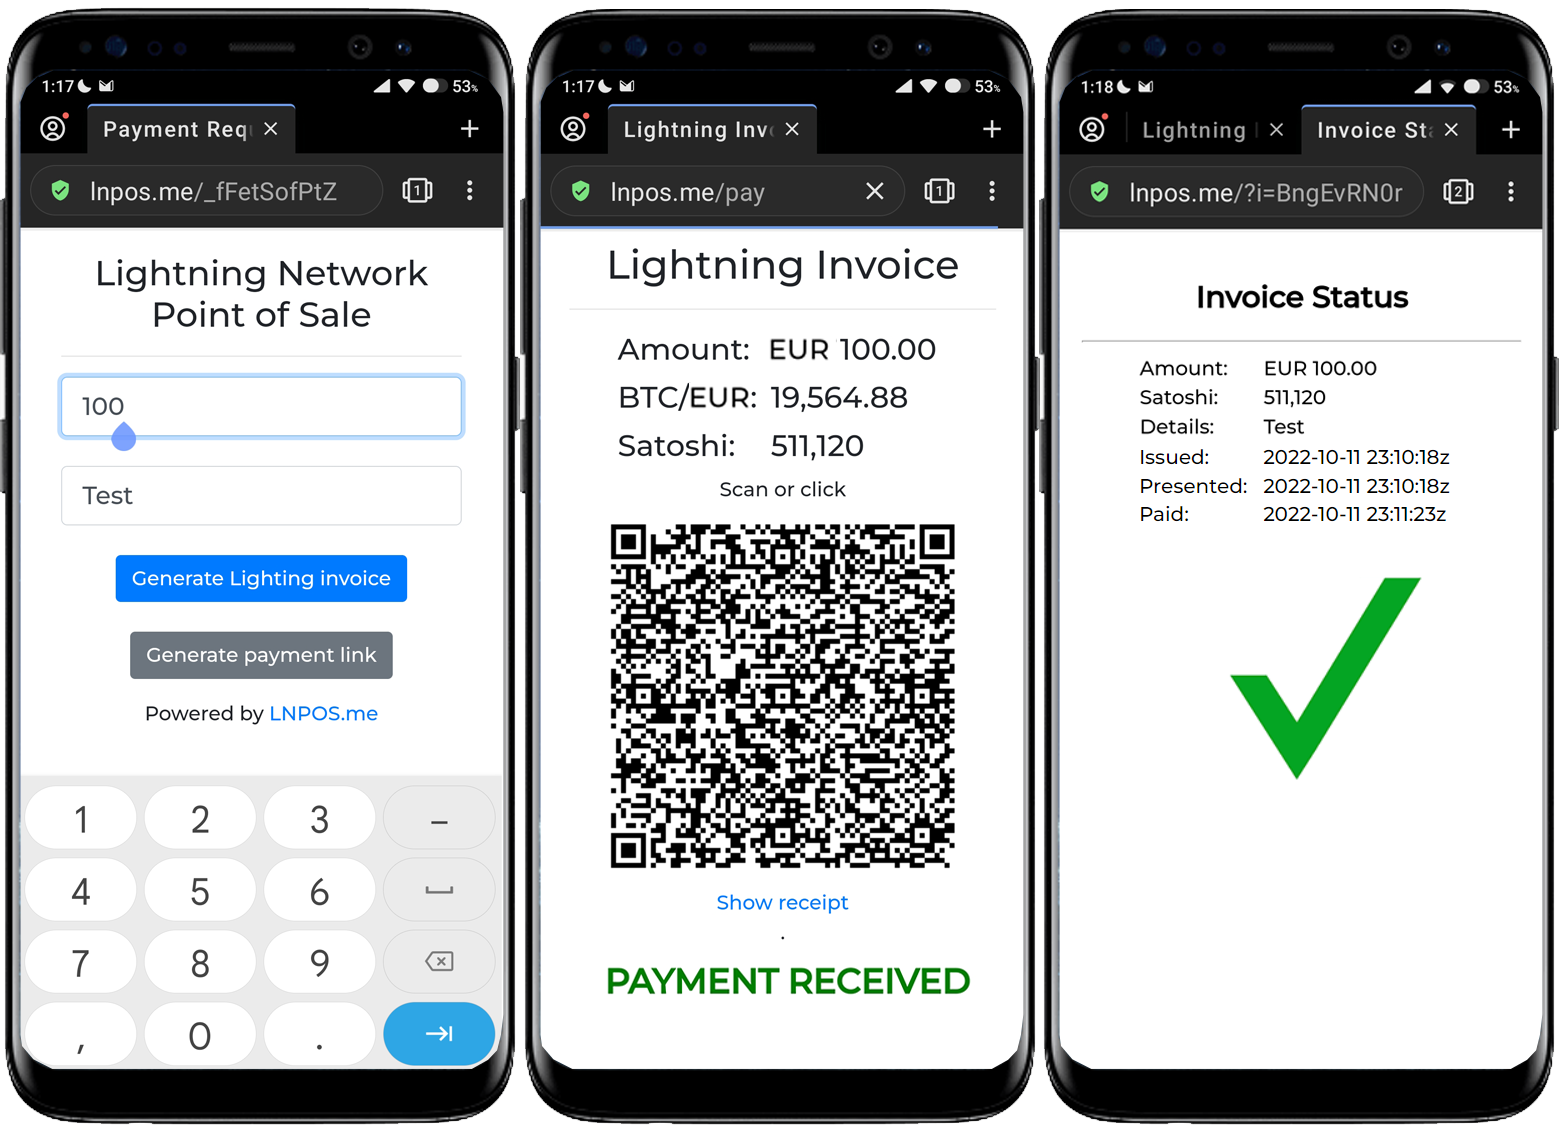
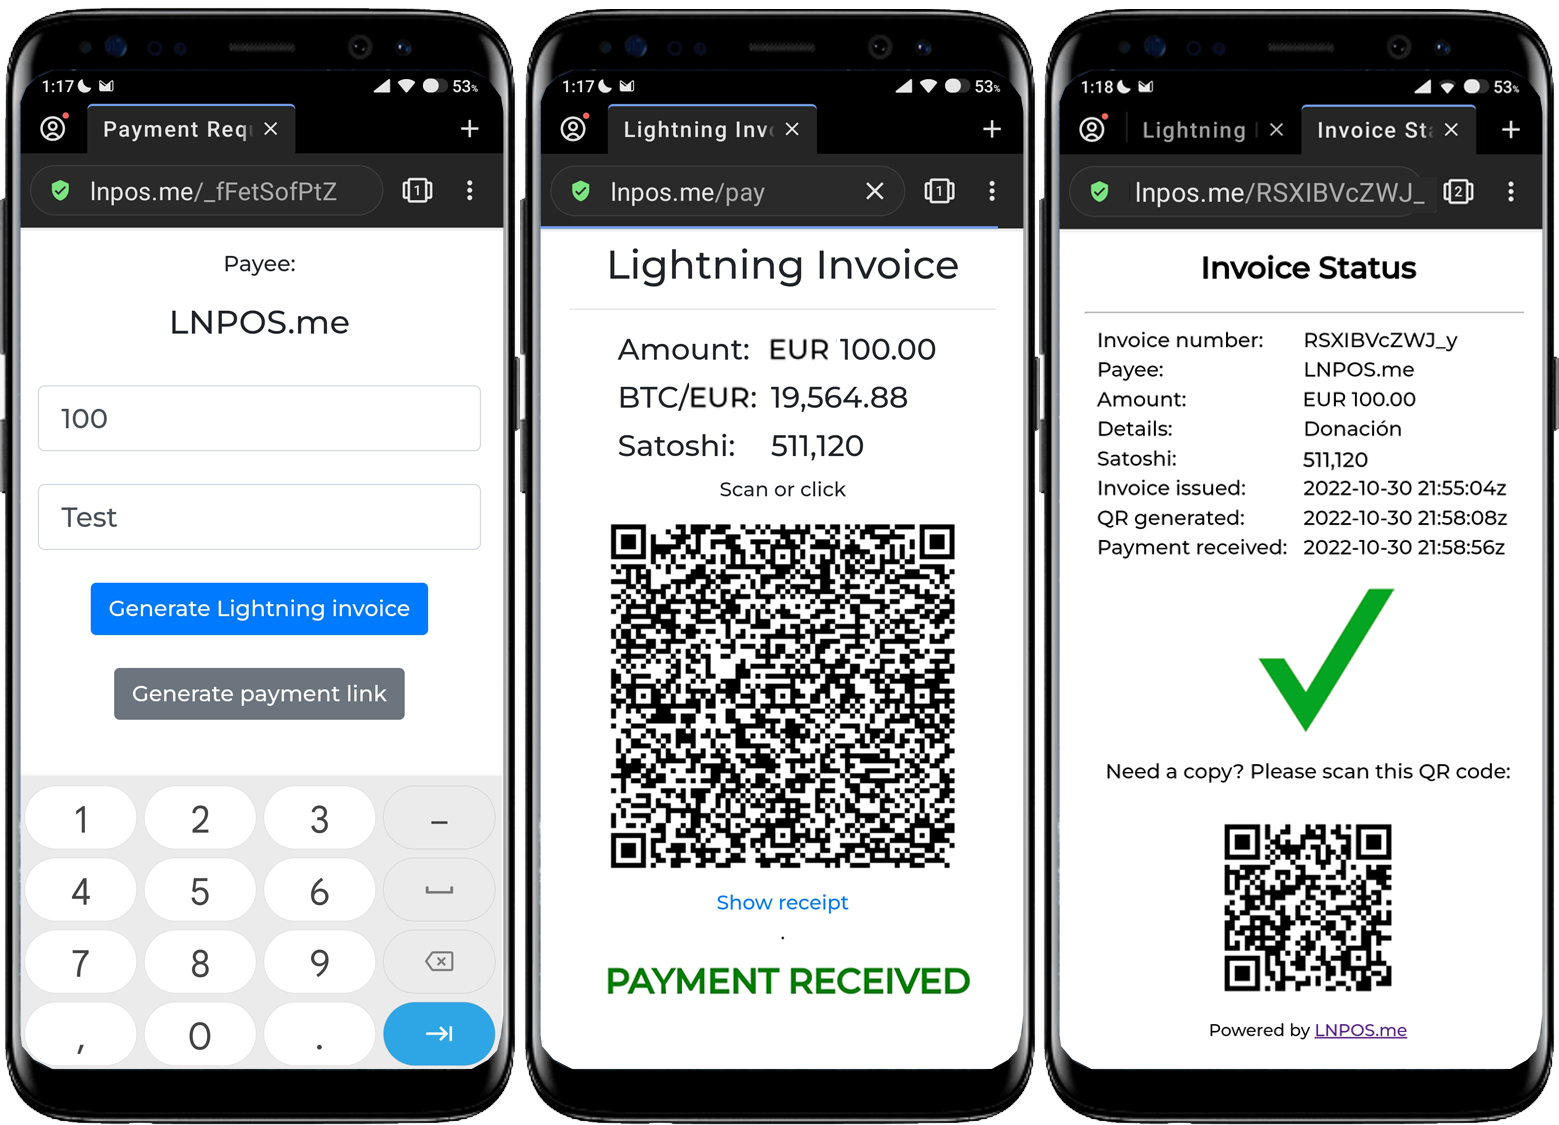
Update picture

diff --git a/views/payremote.html b/views/payremote.html
@@ -48,7 +48,7 @@
       {{#i18n}}remote_payment_link2{{/i18n}}
       <br>
       <br>
-      <div class="b"><a href="{{url}}?status" target="_blank">{{desc}}?status</a></div>
+      <div class="b"><a href="{{url}}?status&lang={{currentLocale}}" target="_blank">{{desc}}?status</a></div>
     </center>
 </div>
 
